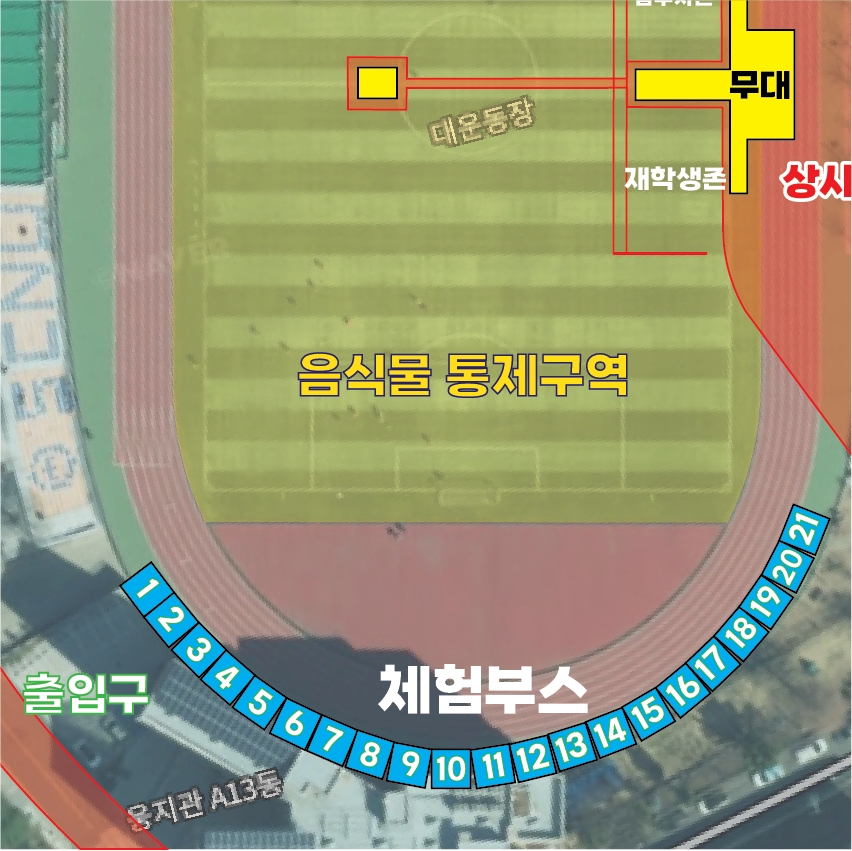
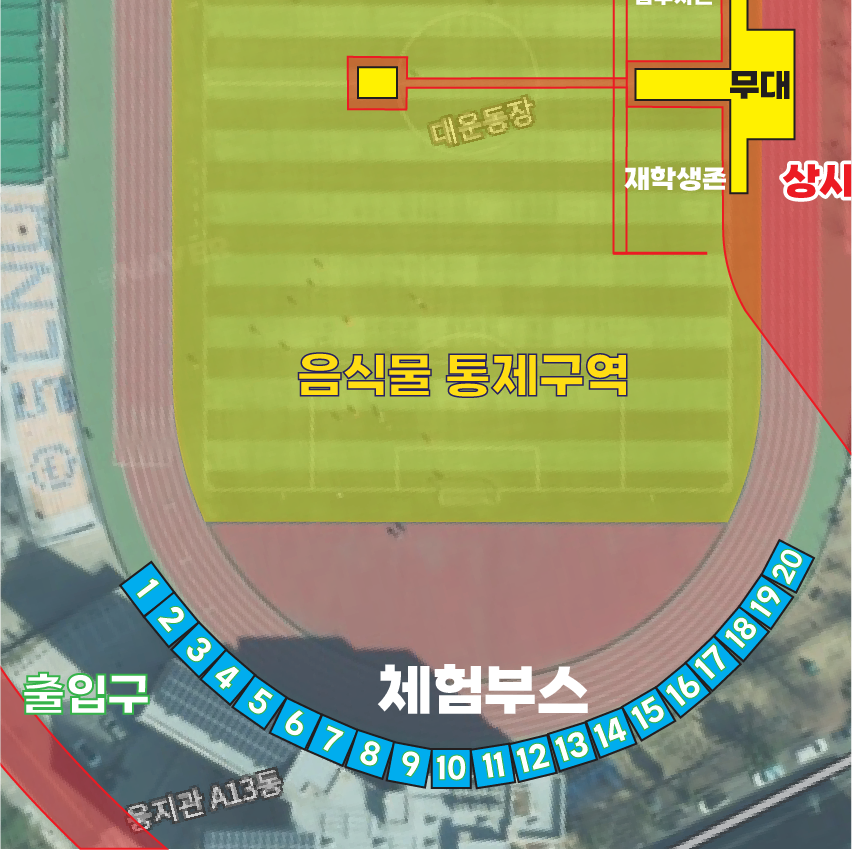
fd

diff --git a/static/js/booth_food.js b/static/js/booth_food.js
@@ -1,27 +1,26 @@
 document.addEventListener("DOMContentLoaded", function () {
     const boothData = {
         blue: [
-    { id: "blue_1", name: "운영 부스", number: "1번", description: "운영 부스입니다." },
-    { id: "blue_2", name: "운영 부스", number: "2번", description: "운영 부스입니다." },
-    { id: "blue_3", name: "또굿집", number: "3번", description: "축제준비위원회" },
-    { id: "blue_4", name: "과일을 찾아라!", number: "4번", description: "총학생회(서화)" },
-    { id: "blue_5", name: "슬리퍼 발로 차", number: "5번", description: "총동아리연합회(결)" },
-    { id: "blue_6", name: "탁구공 던지기 게임", number: "6번", description: "그린스마트팜스쿨학생회(화랑)" },
-    { id: "blue_7", name: "소원을 말해봐", number: "7번", description: "우주항공첨단소재스쿨학생회(SO:ONE)" },
-    { id: "blue_8", name: "2025년 마약류 중독 및 오남용 예방 캠페인", number: "8번", description: "약학대학 학생회(도파민)" },
-    { id: "blue_9", name: "월하랑 놀자", number: "9번", description: "애니메이션문화콘텐츠스쿨" },
-    { id: "blue_10", name: "GTEP 사업단", number: "10번", description: "GTEP 사업단" },
-    { id: "blue_11", name: "양말목 티코스터&음료 리필스테이션", number: "11번", description: "중앙 동아리(새순)" },
-    { id: "blue_12", name: "취향을 담은 꾸러미", number: "12번", description: "창업동아리(방향을 잡는 사람들)" },
-    { id: "blue_13", name: "디망쉬", number: "13번", description: "디망쉬" },
-    { id: "blue_14", name: "대학본부 1", number: "14번", description: "대학본부 1" },
-    { id: "blue_15", name: "대학본부 2", number: "15번", description: "대학본부 2" },
-    { id: "blue_16", name: "대학본부 3", number: "16번", description: "대학본부 3" },
-    { id: "blue_17", name: "대학본부 4", number: "17번", description: "대학본부 4" },
-    { id: "blue_18", name: "대학본부 5", number: "18번", description: "대학본부 5" },
-    { id: "blue_19", name: "대학본부 6", number: "19번", description: "대학본부 6" },
-    { id: "blue_20", name: "동화 속 한 장면", number: "20번", description: "인생네컷" },
-    { id: "blue_21", name: "동화 속 한 장면", number: "21번", description: "인생네컷" }
+    { id: "blue_1", name: "운영 및 안내부스", number: "1번", description: "운영 및 안내부스입니다." },
+  { id: "blue_2", name: "운영 및 안내부스", number: "2번", description: "운영 및 안내부스입니다." },
+  { id: "blue_3", name: "보건진료실", number: "3번", description: "보건진료실" },
+  { id: "blue_4", name: "대외협력과", number: "4번", description: "대외협력과" },
+  { id: "blue_5", name: "학생상담센터", number: "5번", description: "학생상담센터" },
+  { id: "blue_6", name: "인권센터", number: "6번", description: "인권센터" },
+  { id: "blue_7", name: "또굿집", number: "7번", description: "축제준비위원회" },
+  { id: "blue_8", name: "과일을 찾아라!", number: "8번", description: "총학생회(서화)" },
+  { id: "blue_9", name: "슬리퍼 발로 차", number: "9번", description: "총동아리연합회(결결)" },
+  { id: "blue_10", name: "탁구공 던지기 게임", number: "10번", description: "그린스마트팜스쿨학생회(화랑)" },
+  { id: "blue_11", name: "소원을 말해봐", number: "11번", description: "우주항공첨단소재스쿨학생회(SO:ONE)" },
+  { id: "blue_12", name: "2025년 마약류 중독 및 오남용 예방 캠페인", number: "12번", description: "약학대학 학생회(도파민)" },
+  { id: "blue_13", name: "월하랑 놀자", number: "13번", description: "애니메이션문화콘텐츠스쿨" },
+  { id: "blue_14", name: "GTEP 사업단", number: "14번", description: "GTEP 사업단" },
+  { id: "blue_15", name: "양말목 티코스터&음료 리필스테이션", number: "15번", description: "중앙 동아리(새순)" },
+  { id: "blue_16", name: "취향을 담은 꾸러미", number: "16번", description: "창업동아리(방향을 잡는 사람들)" },
+  { id: "blue_17", name: "디망쉬", number: "17번", description: "디망쉬" },
+  { id: "blue_18", name: "농협", number: "18번", description: "농협" },
+  { id: "blue_19", name: "동화 속 한 장면", number: "19번", description: "총학생회(서화)" },
+  { id: "blue_20", name: "동화 속 한 장면", number: "20번", description: "총학생회(서화)" }
 
 ],
         foodtruck1: [

diff --git a/app.py b/app.py
@@ -10,151 +10,144 @@ app.register_blueprint(booth_blueprint, url_prefix='/booth')
 # 부스 정보 설정
 booths = {
     "blue_1": {
-        "name": "운영 부스",
+        "name": "운영 및 안내부스",
         "number": "1",
-        "description": "운영 부스입니다.",
+        "description": "운영 및 안내부스입니다.",
         "details": "booth1.png",
         # "image": "a.png"
     },
     "blue_2": {
-        "name": "운영 부스",
+        "name": "운영 및 안내부스",
         "number": "2",
-        "description": "운영 부스입니다.",
+        "description": "운영 및 안내부스입니다.",
         "details": "booth2.png",
         # "image": "b.png"
     },
     "blue_3": {
-        "name": "또굿집",
+        "name": "보건진료실",
         "number": "3",
-        "description": "축제준비위원회",
-        "details": "booth3.png",
+        "description": "보건진료실",
+        "details": "booth18.png",
         # "image": "c.png"
     },
     "blue_4": {
-        "name": "과일을 찾아라!",
+        "name": "대외협력과",
         "number": "4",
-        "description": "총학생회(서화)",
-        "details": "booth4.png",
+        "description": "대외협력과",
+        "details": "booth18.png",
         # "image": "d.png"
     },
     "blue_5": {
-        "name": "슬리퍼 발로 차",
+        "name": "학생상담센터",
         "number": "5",
-        "description": "총동아리연합회(결)",
-        "details": "booth5.png",
+        "description": "학생상담센터",
+        "details": "booth18.png",
         # "image": "e.png"
     },
     "blue_6": {
-        "name": "탁구공 던지기 게임",
+        "name": "인권센터",
         "number": "6",
-        "description": "그린스마트팜스쿨학생회(화랑)",
-        "details": "booth6.png",
+        "description": "인권센터",
+        "details": "booth18.png",
         # "image": "f.png"
     },
     "blue_7": {
-        "name": "소원을 말해봐",
+        "name": "또굿집",
         "number": "7",
-        "description": "우주항공첨단소재스쿨학생회(SO:ONE)",
-        "details": "booth7.png",
+        "description": "축제준비위원회",
+        "details": "booth3.png",
         # "image": "g.png"
     },
     "blue_8": {
-        "name": "2025년 마약류 중독 및 오남용 예방 캠페인",
+        "name": "과일을 찾아라!",
         "number": "8",
-        "description": "약학대학 학생회(도파민)",
-        "details": "booth8.png",
+        "description": "총학생회(서화)",
+        "details": "booth4.png",
         # "image": "h.png"
     },
     "blue_9": {
-        "name": "월하랑 놀자",
+        "name": "슬리퍼 발로 차",
         "number": "9",
-        "description": "애니메이션문화콘텐츠스쿨",
-        "details": "booth9.png",
+        "description": "총동아리연합회(결결)",
+        "details": "booth5.png",
         # "image": "i.png"
     },
     "blue_10": {
-        "name": "GTEP 사업단",
+        "name": "탁구공 던지기 게임",
         "number": "10",
-        "description": "GTEP 사업단",
-        "details": "booth10.png",
+        "description": "그린스마트팜스쿨학생회(화랑)",
+        "details": "booth6.png",
         # "image": "j.png"
     },
     "blue_11": {
-        "name": "양말목 티코스터&음료 리필스테이션",
+        "name": "소원을 말해봐",
         "number": "11",
-        "description": "중앙 동아리(새순)",
-        "details": "booth11.png",
+        "description": "우주항공첨단소재스쿨학생회(SO:ONE)",
+        "details": "booth7.png",
     # "image": "k.png"
     },
     "blue_12": {
-        "name": "취향을 담은 꾸러미",
+        "name": "2025년 마약류 중독 및 오남용 예방 캠페인",
         "number": "12",
-        "description": "창업동아리(방향을 잡는 사람들)",
-        "details": "booth12.png",
+        "description": "약학대학 학생회(도파민)",
+        "details": "booth8.png",
     # "image": "l.png"
     },
     "blue_13": {
-        "name": "디망쉬",
+        "name": "월하랑 놀자",
         "number": "13",
-        "description": "디망쉬",
-        "details": "booth13.png",
+        "description": "애니메이션문화콘텐츠스쿨",
+        "details": "booth9.png",
     # "image": "m.png"
     },
     "blue_14": {
-        "name": "대학본부 1",
+        "name": "GTEP 사업단",
         "number": "14",
-        "description": "대학본부 1",
-        "details": "booth14.png",
+        "description": "GTEP 사업단",
+        "details": "booth10.png",
     # "image": "n.png"
     },
     "blue_15": {
-        "name": "대학본부 2",
+        "name": "양말목 티코스터&음료 리필스테이션",
         "number": "15",
-        "description": "대학본부 2",
-        "details": "booth15.png",
+        "description": "중앙 동아리(새순)",
+        "details": "booth11.png",
     # "image": "o.png"
     },
     "blue_16": {
-        "name": "대학본부 3",
+        "name": "취향을 담은 꾸러미",
         "number": "16",
-        "description": "대학본부 3",
-        "details": "booth16.png",
+        "description": "창업동아리(방향을 잡는 사람들)",
+        "details": "booth12.png",
     # "image": "p.png"
     },
     "blue_17": {
-        "name": "대학본부 4",
+        "name": "디망쉬",
         "number": "17",
-        "description": "대학본부 4",
-        "details": "booth17.png",
+        "description": "디망쉬",
+        "details": "booth13.png",
     # "image": "q.png"
     },
     "blue_18": {
-        "name": "대학본부 5",
+        "name": "농협",
         "number": "18",
-        "description": "대학본부 5",
+        "description": "농협",
         "details": "booth18.png",
     # "image": "r.png"
     },
     "blue_19": {
-        "name": "대학본부 6",
+        "name": "동화 속 한 장면",
         "number": "19",
-        "description": "대학본부 6",
-        "details": "booth19.png",
+        "description": "총학생회(서화)",
+        "details": "booth20.png",
     # "image": "s.png"
     },
     "blue_20": {
         "name": "동화 속 한 장면",
         "number": "20",
         "description": "총학생회(서화)",
-        "details": "booth20.png",
-    # "image": "t.png"
-    },
-    "blue_21": {
-        "name": "동화 속 한 장면",
-        "number": "21",
-        "description": "총학생회(서화)",
         "details": "booth21.png",
-    # "image": "u.png"
+    # "image": "t.png"
     },
     "food_1": {
         "name": "만동만길",

diff --git a/views.py b/views.py
@@ -8,27 +8,26 @@ booth_blueprint = Blueprint('booth', __name__)
 def booth_detail(booth_id):
     # 부스 데이터 예시
     booth_data = {
-    "blue_1": {"name": "운영 부스", "description": "운영 부스입니다.", "image_url": "/static/images/booth_blue.jpg"},
-    "blue_2": {"name": "운영 부스", "description": "운영 부스입니다.", "image_url": "/static/images/booth_blue.jpg"},
-    "blue_3": {"name": "또굿집", "description": "축제준비위원회", "image_url": "/static/images/booth_blue.jpg"},
-    "blue_4": {"name": "과일을 찾아라!", "description": "총학생회(서화)", "image_url": "/static/images/booth_blue.jpg"},
-    "blue_5": {"name": "슬리퍼 발로 차", "description": "총동아리연합회(결)", "image_url": "/static/images/booth_blue.jpg"},
-    "blue_6": {"name": "탁구공 던지기 게임", "description": "그린스마트팜스쿨학생회(화랑)", "image_url": "/static/images/booth_blue.jpg"},
-    "blue_7": {"name": "소원을 말해봐", "description": "우주항공첨단소재스쿨학생회(SO:ONE)", "image_url": "/static/images/booth_blue.jpg"},
-    "blue_8": {"name": "2025년 마약류 중독 및 오남용 예방 캠페인", "description": "약학대학 학생회(도파민)", "image_url": "/static/images/booth_blue.jpg"},
-    "blue_9": {"name": "월하랑 놀자", "description": "애니메이션문화콘텐츠스쿨", "image_url": "/static/images/booth_blue.jpg"},
-    "blue_10": {"name": "GTEP 사업단", "description": "GTEP 사업단", "image_url": "/static/images/booth_blue.jpg"},
-    "blue_11": {"name": "양말목 티코스터&음료 리필스테이션", "description": "중앙 동아리(새순)", "image_url": "/static/images/booth_blue.jpg"},
-    "blue_12": {"name": "취향을 담은 꾸러미", "description": "창업동아리(방향을 잡는 사람들)", "image_url": "/static/images/booth_blue.jpg"},
-    "blue_13": {"name": "디망쉬", "description": "디망쉬", "image_url": "/static/images/booth_blue.jpg"},
-    "blue_14": {"name": "대학본부 1", "description": "대학본부 1", "image_url": "/static/images/booth_blue.jpg"},
-    "blue_15": {"name": "대학본부 2", "description": "대학본부 2", "image_url": "/static/images/booth_blue.jpg"},
-    "blue_16": {"name": "대학본부 3", "description": "대학본부 3", "image_url": "/static/images/booth_blue.jpg"},
-    "blue_17": {"name": "대학본부 4", "description": "대학본부 4", "image_url": "/static/images/booth_blue.jpg"},
-    "blue_18": {"name": "대학본부 5", "description": "대학본부 5", "image_url": "/static/images/booth_blue.jpg"},
-    "blue_19": {"name": "대학본부 6", "description": "대학본부 6", "image_url": "/static/images/booth_blue.jpg"},
-    "blue_20": {"name": "동화 속 한 장면", "description": "인생네컷", "image_url": "/static/images/booth_blue.jpg"},
-    "blue_21": {"name": "동화 속 한 장면", "description": "인생네컷", "image_url": "/static/images/booth_blue.jpg"},
+    "blue_1": {"name": "운영 및 안내부스", "description": "운영 및 안내부스입니다.", "image_url": "/static/images/booth_blue.jpg"},
+  "blue_2": {"name": "운영 및 안내부스", "description": "운영 및 안내부스입니다.", "image_url": "/static/images/booth_blue.jpg"},
+  "blue_3": {"name": "보건진료실", "description": "보건진료실", "image_url": "/static/images/booth_blue.jpg"},
+  "blue_4": {"name": "대외협력과", "description": "대외협력과", "image_url": "/static/images/booth_blue.jpg"},
+  "blue_5": {"name": "학생상담센터", "description": "학생상담센터", "image_url": "/static/images/booth_blue.jpg"},
+  "blue_6": {"name": "인권센터", "description": "인권센터", "image_url": "/static/images/booth_blue.jpg"},
+  "blue_7": {"name": "또굿집", "description": "축제준비위원회", "image_url": "/static/images/booth_blue.jpg"},
+  "blue_8": {"name": "과일을 찾아라!", "description": "총학생회(서화)", "image_url": "/static/images/booth_blue.jpg"},
+  "blue_9": {"name": "슬리퍼 발로 차", "description": "총동아리연합회(결결)", "image_url": "/static/images/booth_blue.jpg"},
+  "blue_10": {"name": "탁구공 던지기 게임", "description": "그린스마트팜스쿨학생회(화랑)", "image_url": "/static/images/booth_blue.jpg"},
+  "blue_11": {"name": "소원을 말해봐", "description": "우주항공첨단소재스쿨학생회(SO:ONE)", "image_url": "/static/images/booth_blue.jpg"},
+  "blue_12": {"name": "2025년 마약류 중독 및 오남용 예방 캠페인", "description": "약학대학 학생회(도파민)", "image_url": "/static/images/booth_blue.jpg"},
+  "blue_13": {"name": "월하랑 놀자", "description": "애니메이션문화콘텐츠스쿨", "image_url": "/static/images/booth_blue.jpg"},
+  "blue_14": {"name": "GTEP 사업단", "description": "GTEP 사업단", "image_url": "/static/images/booth_blue.jpg"},
+  "blue_15": {"name": "양말목 티코스터&음료 리필스테이션", "description": "중앙 동아리(새순)", "image_url": "/static/images/booth_blue.jpg"},
+  "blue_16": {"name": "취향을 담은 꾸러미", "description": "창업동아리(방향을 잡는 사람들)", "image_url": "/static/images/booth_blue.jpg"},
+  "blue_17": {"name": "디망쉬", "description": "디망쉬", "image_url": "/static/images/booth_blue.jpg"},
+  "blue_18": {"name": "농협", "description": "농협", "image_url": "/static/images/booth_blue.jpg"},
+  "blue_19": {"name": "동화 속 한 장면", "description": "총학생회(서화)", "image_url": "/static/images/booth_blue.jpg"},
+  "blue_20": {"name": "동화 속 한 장면", "description": "총학생회(서화)", "image_url": "/static/images/booth_blue.jpg"},
     "food_1": {"name": "만동만길", "description": "떡순어묵", "image_url": "/static/images/hotdog.jpg"},
     "food_2": {"name": "VIP", "description": "크림, 칠리새우", "image_url": "/static/images/hotdog.jpg"},
     "food_3": {"name": "키다리푸드", "description": "야끼소바, 오코노미야끼", "image_url": "/static/images/hotdog.jpg"},
